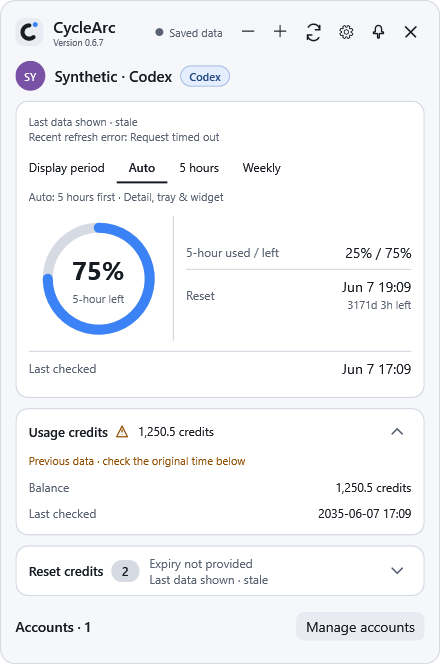
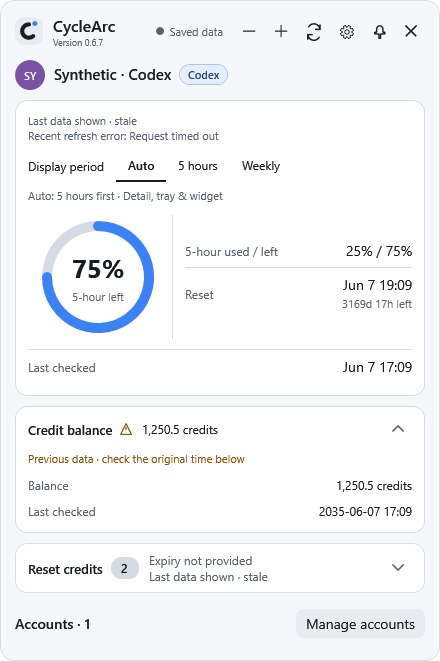
Clarify Codex credit balance label

diff --git a/src/CycleArc.Core/Codex/UsageCreditPresentation.cs b/src/CycleArc.Core/Codex/UsageCreditPresentation.cs
@@ -23,7 +23,7 @@ public static class UsageCreditPresentation
         {
             UsageProviderId.Claude => UiText.T("Extra usage", "추가 사용"),
             UsageProviderId.Cursor => UiText.T("On-demand", "온디맨드"),
-            _ => UiText.T("Usage credits", "사용 크레딧")
+            _ => UiText.T("Credit balance", "크레딧 잔액")
         };
         if (Hidden(snapshot))
             return Card(title, Unknown, UiText.T("Check account connection", "계정 연결 확인 필요"), []);

diff --git a/docs/images/README.md b/docs/images/README.md
@@ -12,7 +12,7 @@ cards; the account list, widget and tray retain their existing content policy.
 | New evidence | Meaning |
 | --- | --- |
 | `widget-common-warning-synthetic-3-{en,ko}-{dark,light}-100.png` | Same stale warning on Codex, Claude and Cursor; local Claude receipt keeps Last received while the others show Last checked; ring colors still follow usage |
-| `usage-card-codex-ko-dark-expanded.png` | Decimal usage credits and original check time, separate from reset credits |
+| `usage-card-codex-ko-dark-expanded.png` | Decimal credit balance and original check time, separate from reset credits |
 | `usage-card-claude-en-light-expanded.png` | Synthetic monthly spend/cap and calculated remainder |
 | `usage-card-cursor-ko-light-collapsed.png` | One-line personal on-demand summary |
 | `usage-card-claude-ko-dark-off.png` | Explicitly disabled extra usage |

diff --git a/docs/ARCHITECTURE.md b/docs/ARCHITECTURE.md
@@ -363,7 +363,7 @@ installed, signed-in Codex CLI (`app-server --stdio`) → account/rate-limit met
 `CodexQuotaSnapshot.UsageCredits` and `.ExtraUsage` are optional provider data, separate from
 quota windows and earned reset credits. Cursor reuses the personal `cursor-on-demand` window's
 existing normalized amounts. `UsageCreditPresentation` projects only the selected account's
-detail card: **Usage credits**, **Extra usage**, or **On-demand**. The card starts collapsed;
+detail card: **Credit balance**, **Extra usage**, or **On-demand**. The card starts collapsed;
 `AppSettings.UsageCardExpandedAccounts` retains expansion by profile ID through account changes,
 refresh and window recreation. Account lists, widget summaries and tray output keep their existing
 policies. Card binding/expansion does not request data or alter usage-alert state.

diff --git a/docs/VALIDATION.md b/docs/VALIDATION.md
@@ -2,6 +2,13 @@
 
 ## Current work — Codex, Claude and Cursor
 
+- Codex credit balance wording (2026-10-03): renamed the selected-detail card to
+  **Credit balance** / **크레딧 잔액** because its summary and Balance row both show the
+  remaining balance, not spent credits. `dev-run.ps1 -NoLaunch` passed, including 1,998
+  unit tests, production WPF checks and package verification. Exported `--usage-credits
+  artifacts/credit-balance-previews` passed 180 states; EN/KO Dark/Light expanded and
+  collapsed views were visually checked, and the two Codex monetary-card previews updated.
+
 - Common widget status and selected-account usage cards (unreleased, 2026-10-01):
   - Based on clean `786a32c8022c764e27d8c883f19d7f85c66e1eea`, branch
     `codex/widget-status-usage-credits`. Same semantic status drives all providers' warning

diff --git a/README.md b/README.md
@@ -4,7 +4,7 @@
 
 A native Windows tray app for checking Codex, Claude and Cursor profiles, remaining percentages and reset times. Codex accounts also show reset credits when available.
 
-The selected account's detail popup adds a folded **Usage credits** (Codex), **Extra usage**
+The selected account's detail popup adds a folded **Credit balance** (Codex), **Extra usage**
 (Claude), or **On-demand** (Cursor) card. Expand it for the reported balance or spend/cap,
 remaining allowance and original check time; Cursor also shows the reported billing-period end.
 Each account remembers its expansion across refreshes and restarts. Codex credits keep their own
